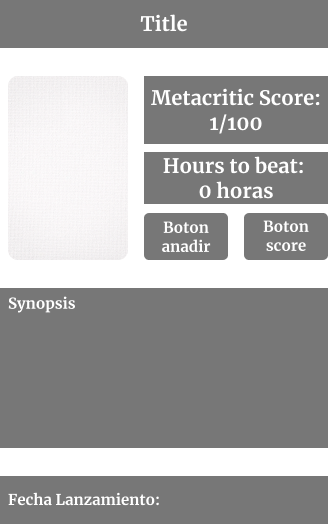
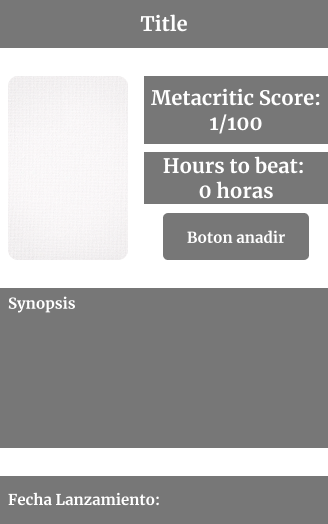
Funcion principal del programa (insercion y eliminacion de videojuegos en las 5 listas permitidas) implementado. Falta la visualización de estas.

Changed region(s): [[0.4268, 0.3969, 1.0, 0.5191]]

diff --git a/app/src/main/java/com/example/tfg2dam/viewmodel/loginViewModel.kt b/app/src/main/java/com/example/tfg2dam/viewmodel/loginViewModel.kt
@@ -8,13 +8,16 @@ import androidx.compose.runtime.setValue
 // import androidx.compose.runtime.mutableIntStateOf
 import androidx.lifecycle.ViewModel
 import androidx.lifecycle.viewModelScope
+import com.example.tfg2dam.model.GameMap
 import com.example.tfg2dam.model.UserModel
+import com.example.tfg2dam.model.toMutableMap
 import com.google.firebase.Firebase
 import com.google.firebase.auth.FirebaseAuth
 import com.google.firebase.auth.auth
 import com.google.firebase.firestore.firestore
 import kotlinx.coroutines.Dispatchers
 import kotlinx.coroutines.launch
+import kotlinx.coroutines.tasks.await
 import java.io.FileWriter
 import java.text.SimpleDateFormat
 import java.util.Date
@@ -128,18 +131,115 @@ class loginViewModel: ViewModel() {
         val id = auth.currentUser?.uid
         val email = auth.currentUser?.email
 
-        viewModelScope.launch(Dispatchers.IO) {
+        if (id != null && email != null) {
             val user = UserModel(
-                userId = id.toString(),
-                email = email.toString(),
+                userId = id,
+                email = email,
                 username = username,
                 password = password,
+                gameMap = GameMap(
+                    CP = mutableListOf(),
+                    PTP = mutableListOf(),
+                    DR = mutableListOf(),
+                    OH = mutableListOf(),
+                    CTD = mutableListOf()
+                ).toMutableMap()
             )
-            writeToLog("Usuario guardado con éxito")
-            // DCS - Añade el usuario a la colección "Users" en la base de datos Firestore
-            firestore.collection("users").document(id ?: "").set(user)
-                .addOnSuccessListener { Log.d("GUARDAR OK", "Se guardó el usuario correctamente en Firestore") }
-                .addOnFailureListener { Log.d("ERROR AL GUARDAR", "ERROR al guardar en Firestore") }
+
+            viewModelScope.launch(Dispatchers.IO) {
+                // Guardar el usuario en la colección "Users"
+                firestore.collection("users").document(id).set(user)
+                    .addOnSuccessListener {
+                        Log.d("GUARDAR OK", "Se guardó el usuario correctamente en Firestore")
+                    }
+                    .addOnFailureListener { exception ->
+                        Log.d("ERROR AL GUARDAR", "ERROR al guardar en Firestore: $exception")
+                    }
+            }
+        } else {
+            Log.d("ERROR GUARDAR USUARIO", "El ID de usuario o el correo electrónico son nulos.")
+        }
+    }
+
+    /**
+     * Añade videojuegos (su id) a las 5 listas disponibles
+     */
+
+    suspend fun addGameIdToUser(userId: String, gameId: Int, gameType: String) {
+        try {
+            // Obtener el usuario de Firestore
+            val userDocument = firestore.collection("users").document(userId).get().await()
+            if (userDocument.exists()) {
+                val userModel = userDocument.toObject(UserModel::class.java)
+                if (userModel != null) {
+                    // Actualizar el mapa de juegos agregando el nuevo gameId a la lista existente
+                    val updatedGameMap = when (gameType) {
+                        "CP" -> userModel.gameMap.copy(CP = userModel.gameMap.CP.toMutableList().apply { add(gameId) })
+                        "PTP" -> userModel.gameMap.copy(PTP = userModel.gameMap.PTP.toMutableList().apply { add(gameId) })
+                        "DR" -> userModel.gameMap.copy(DR = userModel.gameMap.DR.toMutableList().apply { add(gameId) })
+                        "OH" -> userModel.gameMap.copy(OH = userModel.gameMap.OH.toMutableList().apply { add(gameId) })
+                        "CTD" -> userModel.gameMap.copy(CTD = userModel.gameMap.CTD.toMutableList().apply { add(gameId) })
+                        else -> userModel.gameMap // Si el tipo de juego no es válido, no se realiza ninguna modificación
+                    }
+
+                    // Actualizar el objeto UserModel con el nuevo mapa de juegos
+                    val updatedUser = userModel.copy(gameMap = updatedGameMap)
+
+                    // Guardar el usuario actualizado en Firestore
+                    firestore.collection("users").document(userId).set(updatedUser)
+                        .addOnSuccessListener {
+                            Log.d("ACTUALIZACIÓN EXITOSA", "Se agregó el gameId al usuario correctamente en Firestore")
+                        }
+                        .addOnFailureListener { exception ->
+                            Log.e("ERROR AL ACTUALIZAR", "ERROR al actualizar en Firestore", exception)
+                        }
+                }
+            } else {
+                Log.d("USUARIO NO ENCONTRADO", "No se encontró ningún usuario con el ID proporcionado")
+            }
+        } catch (e: Exception) {
+            Log.e("ERROR AL AGREGAR GAME ID", "ERROR: ${e.localizedMessage}", e)
+        }
+    }
+
+    /**
+     * Elimina videojuegos (su id) de las 5 listas disponibles
+     */
+
+    suspend fun removeGameIdFromUser(userId: String, gameId: Int, gameType: String) {
+        try {
+            // Obtener el usuario de Firestore
+            val userDocument = firestore.collection("users").document(userId).get().await()
+            if (userDocument.exists()) {
+                val userModel = userDocument.toObject(UserModel::class.java)
+                if (userModel != null) {
+                    // Actualizar el mapa de juegos eliminando el gameId de la lista correspondiente
+                    val updatedGameMap = when (gameType) {
+                        "CP" -> userModel.gameMap.copy(CP = userModel.gameMap.CP.toMutableList().apply { remove(gameId) })
+                        "PTP" -> userModel.gameMap.copy(PTP = userModel.gameMap.PTP.toMutableList().apply { remove(gameId) })
+                        "DR" -> userModel.gameMap.copy(DR = userModel.gameMap.DR.toMutableList().apply { remove(gameId) })
+                        "OH" -> userModel.gameMap.copy(OH = userModel.gameMap.OH.toMutableList().apply { remove(gameId) })
+                        "CTD" -> userModel.gameMap.copy(CTD = userModel.gameMap.CTD.toMutableList().apply { remove(gameId) })
+                        else -> userModel.gameMap // Si el tipo de juego no es válido, no se realiza ninguna modificación
+                    }
+
+                    // Actualizar el objeto UserModel con el nuevo mapa de juegos
+                    val updatedUser = userModel.copy(gameMap = updatedGameMap)
+
+                    // Guardar el usuario actualizado en Firestore
+                    firestore.collection("users").document(userId).set(updatedUser)
+                        .addOnSuccessListener {
+                            Log.d("ACTUALIZACIÓN EXITOSA", "Se eliminó el gameId del usuario correctamente en Firestore")
+                        }
+                        .addOnFailureListener { exception ->
+                            Log.e("ERROR AL ACTUALIZAR", "ERROR al actualizar en Firestore", exception)
+                        }
+                }
+            } else {
+                Log.d("USUARIO NO ENCONTRADO", "No se encontró ningún usuario con el ID proporcionado")
+            }
+        } catch (e: Exception) {
+            Log.e("ERROR AL ELIMINAR GAME ID", "ERROR: ${e.localizedMessage}", e)
         }
     }
 
@@ -281,6 +381,14 @@ class loginViewModel: ViewModel() {
             writeToLog("El ID del usuario actual es null")
             callback(null)
         }
+    }
+
+    fun getUserIdFromFirestore(callback: (String?) -> Unit) {
+        // Obtener el ID del usuario actualmente autenticado
+        val userId = auth.currentUser?.uid
+
+        // Llamar al callback con el ID de usuario obtenido
+        callback(userId)
     }
 
 }

diff --git a/app/src/main/java/com/example/tfg2dam/screens/secondaryviews/GameDetailsScreen.kt b/app/src/main/java/com/example/tfg2dam/screens/secondaryviews/GameDetailsScreen.kt
@@ -14,6 +14,7 @@ import androidx.compose.runtime.LaunchedEffect
 import androidx.compose.runtime.getValue
 import androidx.compose.runtime.mutableStateOf
 import androidx.compose.runtime.remember
+import androidx.compose.runtime.rememberCoroutineScope
 import androidx.compose.runtime.setValue
 import androidx.compose.ui.Alignment
 import androidx.compose.ui.Modifier
@@ -30,6 +31,7 @@ import com.example.tfg2dam.header.Header
 import com.example.tfg2dam.menudesplegable.MenuDesplegable
 import com.example.tfg2dam.viewmodel.VideojuegosViewModel
 import com.example.tfg2dam.viewmodel.loginViewModel
+import kotlinx.coroutines.launch
 
 @Composable
 fun GameDetailsScreen(navController: NavHostController, loginVM: loginViewModel, id: Int, gameVM: VideojuegosViewModel) {
@@ -41,6 +43,8 @@ fun GameDetailsScreen(navController: NavHostController, loginVM: loginViewModel,
     val gamePlaytime = gameVM.getGamePlayTimeById(id)
     val gameDateReleased = gameVM.getGameDateById(id)
     var username by remember { mutableStateOf("") }
+    var userid by remember { mutableStateOf("") }
+    val scope = rememberCoroutineScope()
 
     LaunchedEffect(Unit) {
         loginVM.getUsernameFromFirestore { retrievedUsername ->
@@ -48,10 +52,14 @@ fun GameDetailsScreen(navController: NavHostController, loginVM: loginViewModel,
                 username = it
             }
         }
+        loginVM.getUserIdFromFirestore { userId ->
+            if (userId != null) {
+                userid = userId // Actualizar el valor de userid con el ID del usuario obtenido
+            } else {
+                println("El usuario no está autenticado o no se pudo obtener su ID")
+            }
+        }
     }
-
-
-    // Para esta pantalla, me gustaria extraer el tiempo de juego (playtime) y el rating de metacritic
 
 
     Box(modifier = Modifier
@@ -72,8 +80,14 @@ fun GameDetailsScreen(navController: NavHostController, loginVM: loginViewModel,
                 metacriticScoretextcontent = "Metacritic Score: $gameMetacriticScore/100",
                 gameHourstextcontent = "Hours to beat:\n$gamePlaytime horas",
                 releasedtextcontent = "Fecha de Lanzamiento: $gameDateReleased",
-            ){
-            }
+                onAddButtonClicked = {
+                    scope.launch {
+                        // loginVM.addGameIdToUser(userid, id, "OH") Esta es la llamada para la introduccion de juegos a las listas
+                        // loginVM.removeGameIdFromUser(userid, id, "OH") Esta es la llamada para la eliminación de juegos de las listas
+                        // Sería interesante poner un menu (Dropdownmenu o algo parecido) para elegir a que lista añadirlo
+                    }
+                }
+            )
         }
 
         FooterNavTab(

diff --git a/app/src/main/java/com/example/tfg2dam/model/UserModel.kt b/app/src/main/java/com/example/tfg2dam/model/UserModel.kt
@@ -1,8 +1,35 @@
 package com.example.tfg2dam.model
 
+import com.google.firebase.firestore.PropertyName
+
 data class UserModel(
-    val userId: String,
-    val username: String,
-    val email: String,
-    val password: String,
-)
+    val userId: String = "",
+    val username: String = "",
+    val email: String = "",
+    val password: String = "",
+    @get:PropertyName("gameMap") val gameMap: GameMap = GameMap()
+) {
+    constructor() : this("", "", "", "", GameMap())
+}
+
+data class GameMap(
+    @get:PropertyName("CP") val CP: MutableList<Int> = mutableListOf(),
+    @get:PropertyName("PTP") val PTP: MutableList<Int> = mutableListOf(),
+    @get:PropertyName("DR") val DR: MutableList<Int> = mutableListOf(),
+    @get:PropertyName("OH") val OH: MutableList<Int> = mutableListOf(),
+    @get:PropertyName("CTD") val CTD: MutableList<Int> = mutableListOf()
+) {
+    constructor() : this(mutableListOf(), mutableListOf(), mutableListOf(), mutableListOf(), mutableListOf())
+}
+
+
+fun GameMap.toMutableMap(): GameMap {
+    return GameMap(
+        CP = CP.toMutableList(),
+        PTP = PTP.toMutableList(),
+        DR = DR.toMutableList(),
+        OH = OH.toMutableList(),
+        CTD = CTD.toMutableList()
+    )
+}
+
